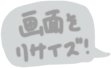
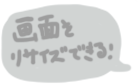
tester

diff --git a/main.css b/main.css
@@ -62,12 +62,12 @@ html, body {
 }
 
 .resize{
-	width: 111px;
-	height: 68px;
+	width: 138px;
+	height: 84px;
 	background: url(resizebubble.png);
 	position: absolute;
-	top: 16%;
-	left: 2%;
+	top: 14%;
+	left: -3%;
 }
 
 .pressbutt{
@@ -339,6 +339,22 @@ html, body {
 
 @keyframes horn{
 	60%, 100% {background-position: -600px;}
+}
+
+
+.mail{
+	width: 100px;
+	height: 100px;
+	background: url(mail.png);
+	animation: float 1s steps(4) infinite;
+	position: absolute;
+	top: 3%;
+	left: 14%;
+
+}
+
+@keyframes float{
+	100% {background-position: -400px;}
 }
 
 

diff --git a/script.js b/script.js
@@ -23,6 +23,7 @@ $(document).ready(function(){
 	$(".pulsethree").hide();
 	$(".ouch").hide();
 	$(".partyhorn").hide();
+	$(".mail").hide();
 
 	$(".pulsestart").click(function(){
 		$(this).hide();
@@ -79,6 +80,7 @@ $(document).ready(function(){
 	"border-top-left-radius": "34px",
     "border-top-right-radius": "34px"});
 		$(".eyebrow").css({"top":"-10px"});
+		$(".mail").delay(800).fadeIn();
 
 	}
 

diff --git a/index.html b/index.html
@@ -43,7 +43,7 @@
 
 	<div class="statue">
 
-		<a href="#popup">Testing popup</a>
+		
 		<div class="resize"></div>
 		<div class="pressbutt"></div>
 
@@ -73,7 +73,7 @@
 
 
 		<div class="partyhorn"></div>
-
+		<a href="#popup"><div class="mail"></div></a>
 	</div>
 
 </div>
